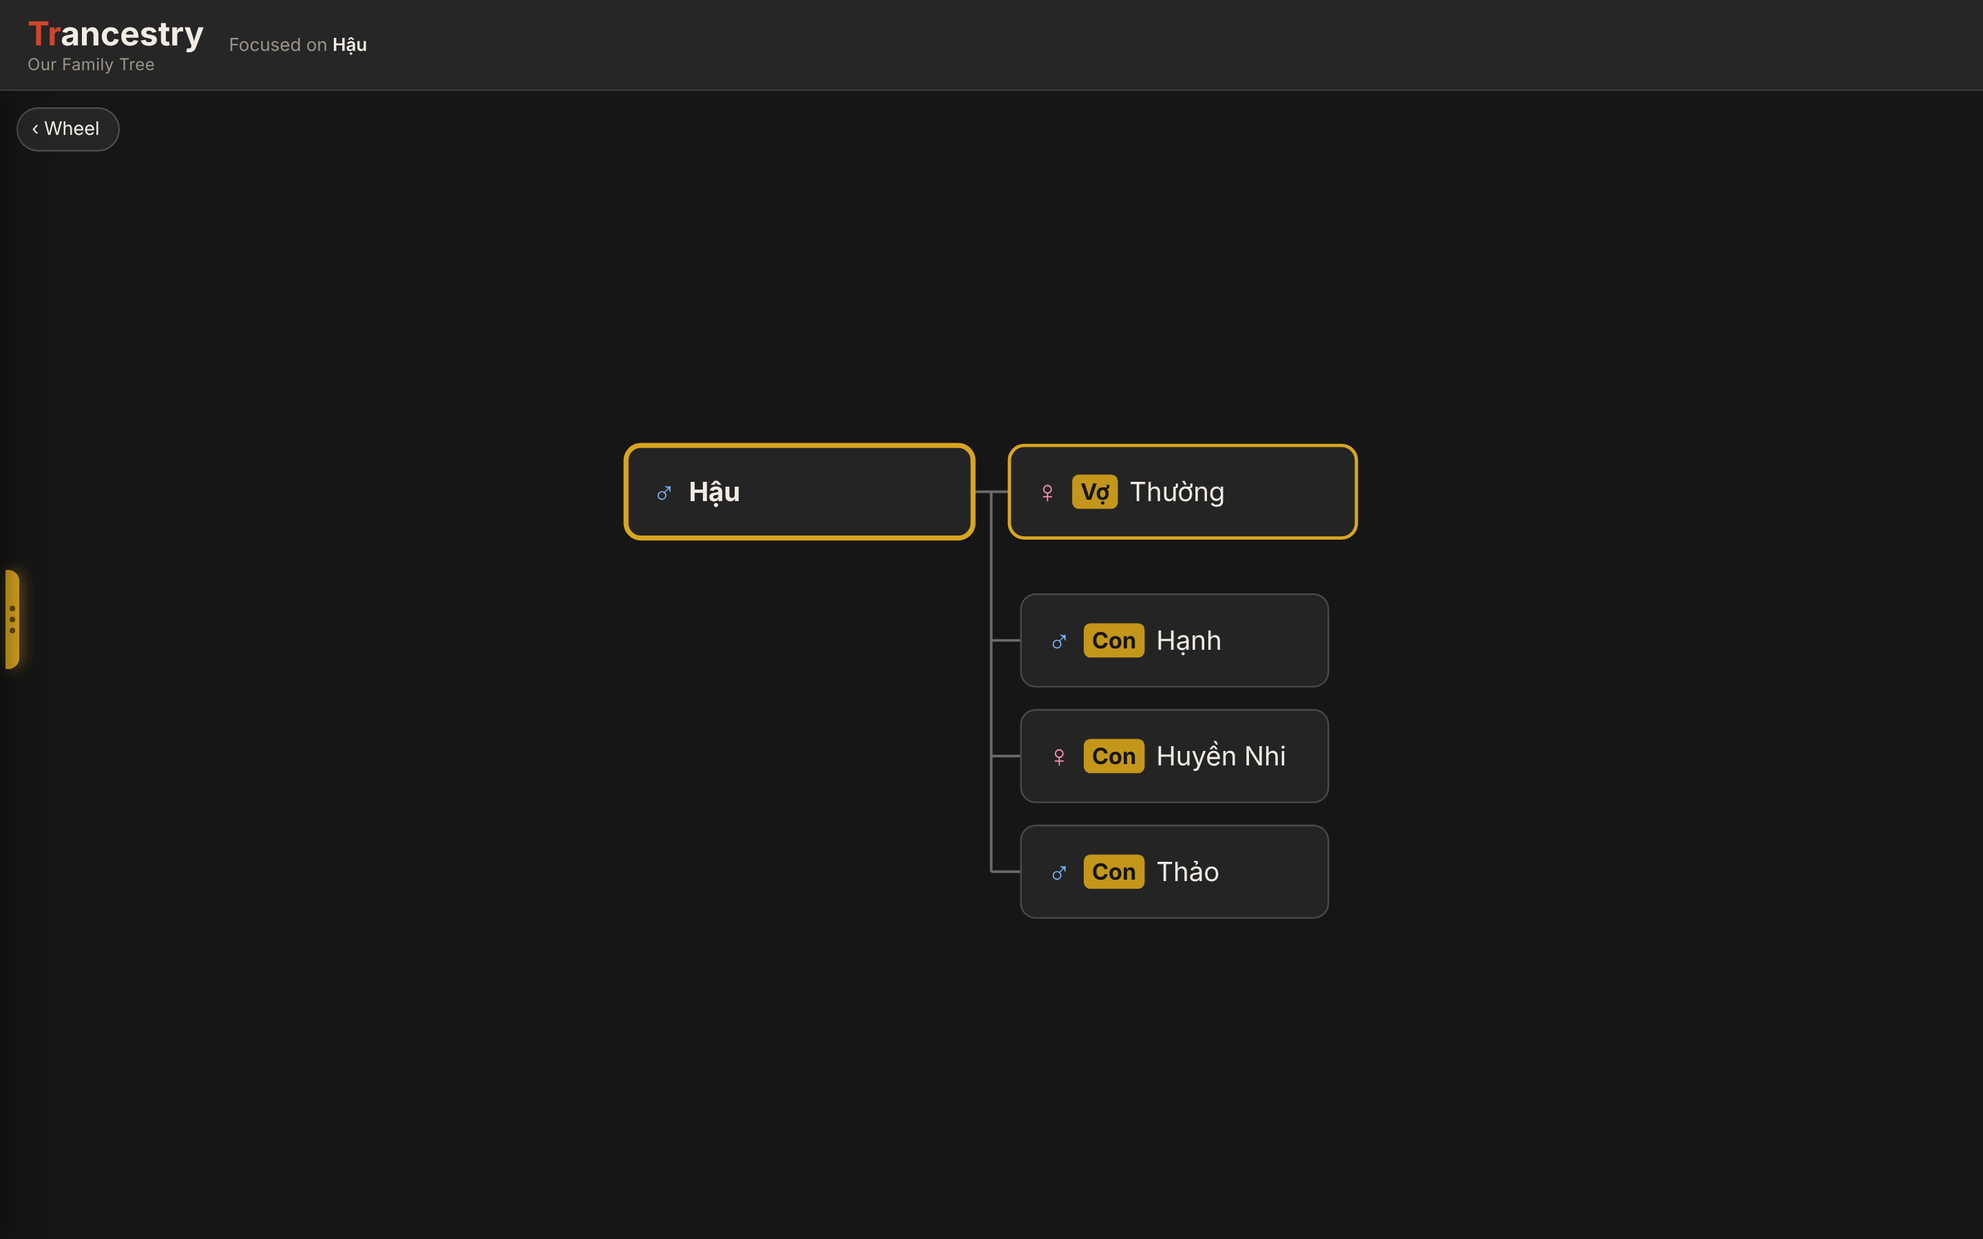
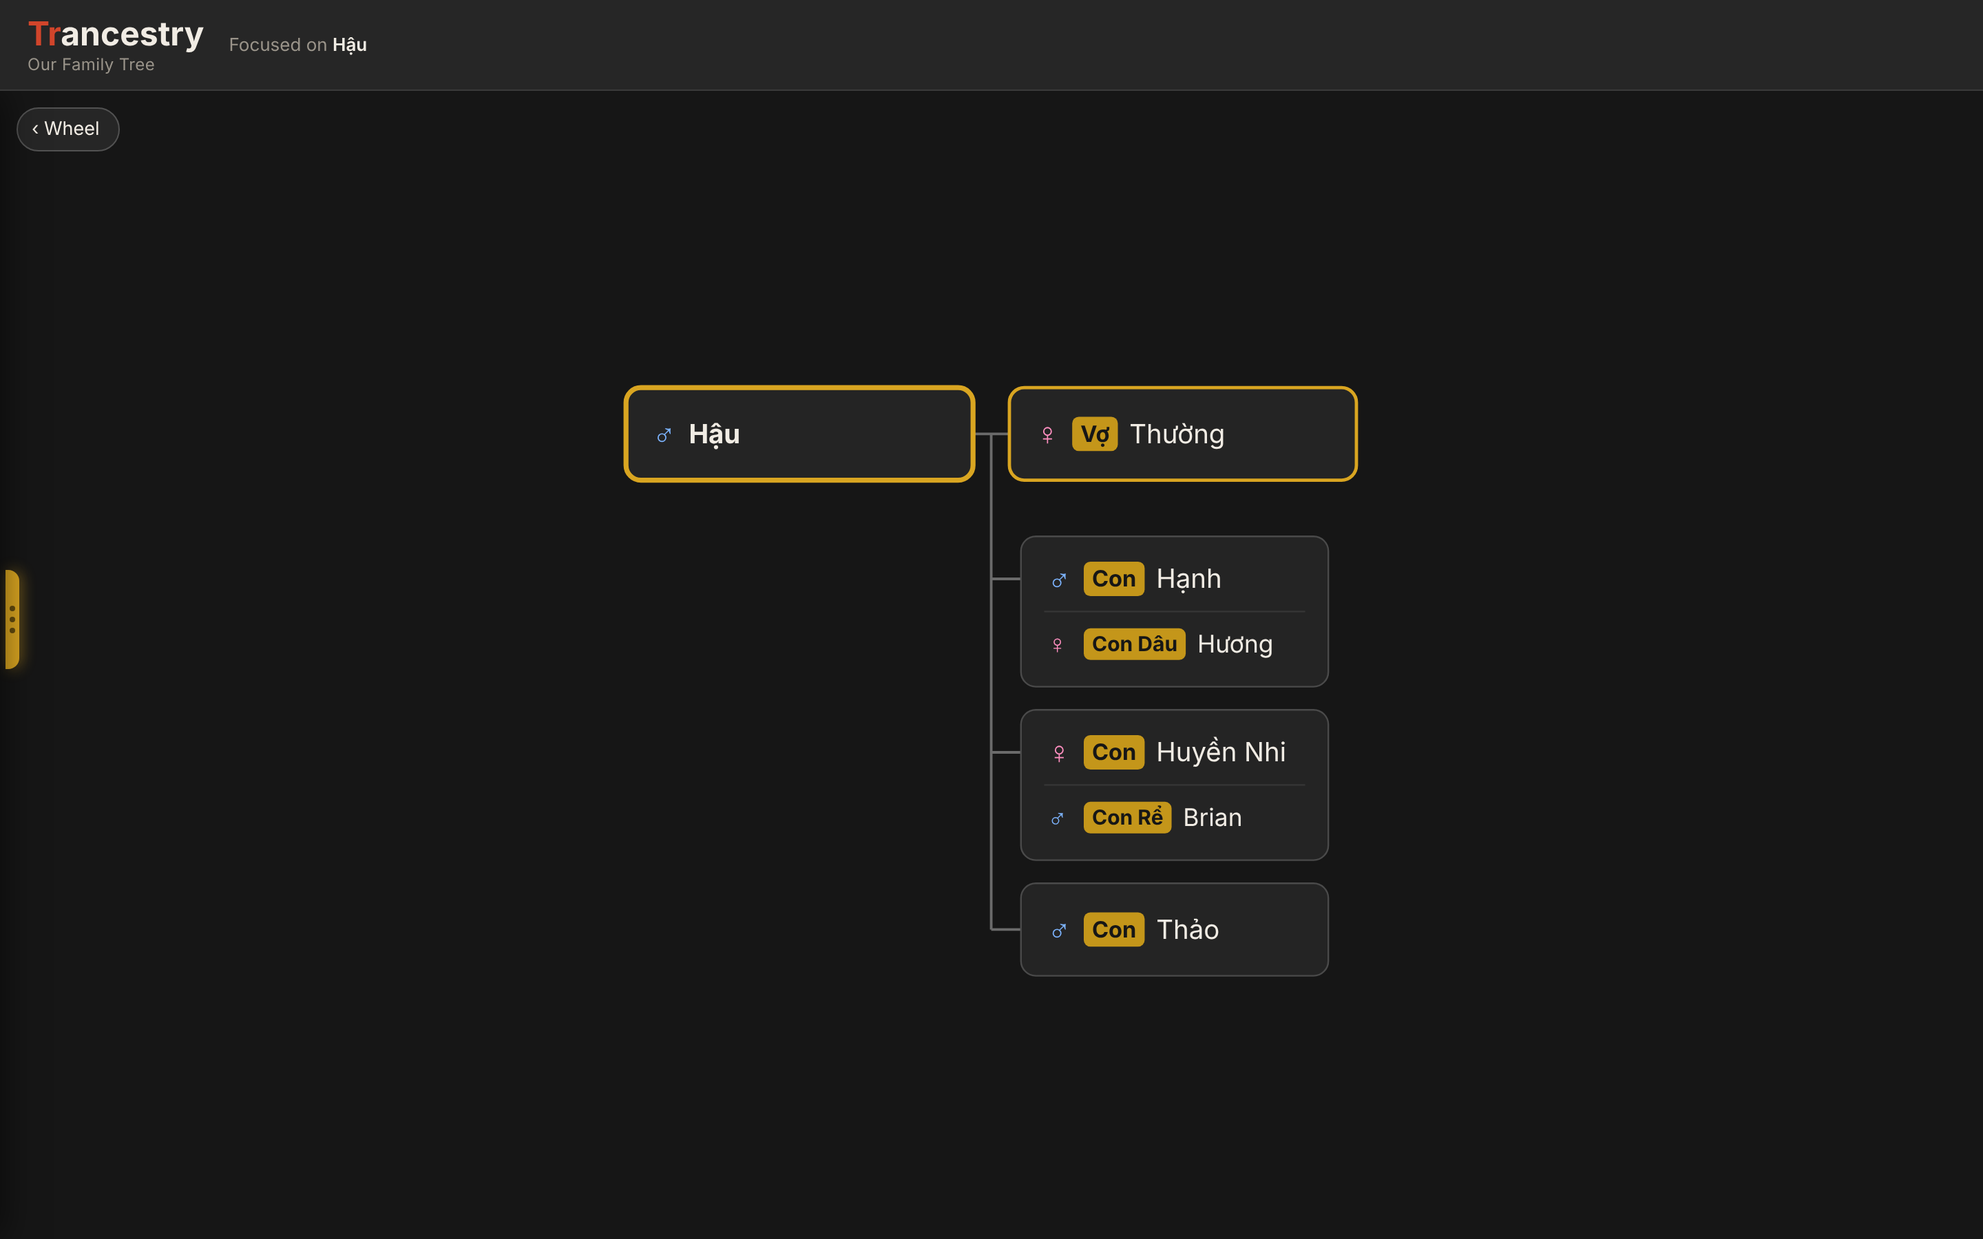
v2: Simple view child cards include their spouse (Entry 101)
Claude-Session: https://claude.ai/code/session_01L5J4XGDoU485bNMdVhDAYq

Changed region(s): [[0.3125, 0.3111, 0.6875, 0.56], [0.5312, 0.5911, 0.6562, 0.7778]]

diff --git a/v2/index.html b/v2/index.html
@@ -379,14 +379,22 @@ function paneSync(){$('pWhole').disabled=!SNAP;$('pClear').disabled=!FOCAL;$('pC
 (function(){
  let CW=210,CH=58,GX=18,GY=70,PAD=28;const MALE='#7db4ff',FEM='#ff8fc0';
  const ss=d3.select('#ssv');
+ // Entry 101 (Hanh): a child's card also shows their wife / husband, one line each under the child
+ const spouses=p=>P.filter(q=>q.d===p.d&&q.i>0),SL=()=>Math.round(CH*.62);
+ const cardH=(p,role)=>role==='child'?CH+spouses(p).length*SL():CH;
+ const line0=(p,role)=>{const n=role==='child'?1+spouses(p).length:1,LH=(cardH(p,role)-(n>1?12:0))/n;return (n>1?6:0)+LH/2};
  function card(g,x,y,w,p,role){   // role: 'focal' | 'couple' | 'child'
-  const G=g.append('g').attr('class','card').attr('transform',`translate(${x},${y})`).on('click',e=>{e.stopPropagation();go(p)});
-  G.append('rect').attr('width',w).attr('height',CH).attr('rx',9).attr('fill','#242424').attr('stroke',role==='child'?'#4a4a4a':GOLD).attr('stroke-width',role==='child'?1:(role==='focal'?3:2));
-  const sym=p.g==='F'?'♀':p.g==='M'?'♂':'';G.append('text').attr('x',16).attr('y',CH/2).attr('dy','.35em').attr('font-size',19).attr('font-weight',700).attr('fill',p.g==='F'?FEM:MALE).text(sym);
-  let x0=38;const title=p===FOCAL?'':titleOf(FOCAL.cell,p.cell),fs=CW<200?14:16;
-  if(title){const tw=W(title,fs*.85,700)+10;G.append('rect').attr('x',x0).attr('y',CH/2-fs*.65).attr('width',tw).attr('height',fs*1.3).attr('rx',4).attr('fill',CHIP);
-   G.append('text').attr('x',x0+5).attr('y',CH/2).attr('dy','.35em').attr('font-size',fs*.85).attr('font-weight',700).attr('fill','#161616').text(title);x0+=tw+7}
-  G.append('text').attr('x',x0).attr('y',CH/2).attr('dy','.35em').attr('font-size',fs).attr('font-weight',p===FOCAL?700:400).attr('fill','#f1ece4').text(fit(p.nm,fs,w-x0-12,p===FOCAL?700:400))}
+  const people=role==='child'?[p,...spouses(p)]:[p],h=cardH(p,role),n=people.length,LH=(h-(n>1?12:0))/n,fs=CW<200?14:16;
+  const G=g.append('g').attr('class','card').attr('transform',`translate(${x},${y})`);
+  G.append('rect').attr('width',w).attr('height',h).attr('rx',9).attr('fill','#242424').attr('stroke',role==='child'?'#4a4a4a':GOLD).attr('stroke-width',role==='child'?1:(role==='focal'?3:2));
+  people.forEach((q,k)=>{const cy=(n>1?6:0)+LH*(k+.5),R=G.append('g').style('cursor','pointer').on('click',e=>{e.stopPropagation();go(q)});
+   R.append('rect').attr('x',2).attr('y',cy-LH/2).attr('width',w-4).attr('height',LH).attr('fill','transparent');
+   if(k)R.append('line').attr('x1',14).attr('x2',w-14).attr('y1',cy-LH/2).attr('y2',cy-LH/2).attr('stroke','#363636');
+   const sym=q.g==='F'?'♀':q.g==='M'?'♂':'';R.append('text').attr('x',16).attr('y',cy).attr('dy','.35em').attr('font-size',k?16:19).attr('font-weight',700).attr('fill',q.g==='F'?FEM:MALE).text(sym);
+   let x0=38;const title=q===FOCAL?'':titleOf(FOCAL.cell,q.cell),f=k?fs*.92:fs;
+   if(title){const tw=W(title,f*.85,700)+10;R.append('rect').attr('x',x0).attr('y',cy-f*.65).attr('width',tw).attr('height',f*1.3).attr('rx',4).attr('fill',CHIP);
+    R.append('text').attr('x',x0+5).attr('y',cy).attr('dy','.35em').attr('font-size',f*.85).attr('font-weight',700).attr('fill','#161616').text(title);x0+=tw+7}
+   R.append('text').attr('x',x0).attr('y',cy).attr('dy','.35em').attr('font-size',f).attr('font-weight',q===FOCAL?700:400).attr('fill','#f1ece4').text(fit(q.nm,f,w-x0-12,q===FOCAL?700:400))})}
  // Entry 97 (Hanh): children always in a column; with two wives each mother's children hang from her
  function draw(){if(!FOCAL)return;ss.selectAll('*').remove();const ph=innerWidth<=820;CW=ph?150:210;CH=ph?48:56;GX=ph?14:22;PAD=ph?16:28;
   const d=FOCAL.d,couple=P.filter(q=>q.d===d),VG=ph?10:14,IND=ph?14:18,DROP=ph?26:34,KW=CW-IND-6;
@@ -399,31 +407,31 @@ function paneSync(){$('pWhole').disabled=!SNAP;$('pClear').disabled=!FOCAL;$('pC
   const cw=couple.length*CW+(couple.length-1)*GX,cx=i=>PAD+lpad+slot[i]*(CW+GX);
   // where each group's line drops from: the couple's middle (one spouse) or the mother herself (two or more wives)
   const dropX=mi=>couple.length===1?cx(0)+CW/2:couple.length===2?cx(0)+CW+GX/2:cx(mi)+CW/2;
-  let maxN=0,right=PAD+lpad+cw;groups.forEach((ks,mi)=>{maxN=Math.max(maxN,ks.length);right=Math.max(right,dropX(mi)+IND+KW)});
-  const Wd=right+PAD,y1=PAD,yk=y1+CH+DROP,Hd=yk+(maxN?maxN*(CH+VG)-VG:0)+PAD;
+  let maxN=0,right=PAD+lpad+cw;groups.forEach((ks,mi)=>{maxN=Math.max(maxN,ks.reduce((t,q)=>t+cardH(q,'child')+VG,-VG));right=Math.max(right,dropX(mi)+IND+KW)});
+  const Wd=right+PAD,y1=PAD,yk=y1+CH+DROP,Hd=yk+Math.max(0,maxN)+PAD;
   const box=$('simple').getBoundingClientRect(),k=Math.max(.75,Math.min(1.2,(box.width-16)/Wd));
   ss.attr('width',Wd*k).attr('height',Hd*k).attr('viewBox',`0 0 ${Wd} ${Hd}`).style('margin-top',Math.max(8,(box.height-64-Hd*k)/2)+'px');
   const g=ss.append('g'),L=g.append('g'),ln=(a,b,c,e)=>L.append('line').attr('x1',a).attr('y1',b).attr('x2',c).attr('y2',e).attr('stroke','#6b6b6b').attr('stroke-width',1.6);
   if(couple.length===2)ln(cx(0)+CW,y1+CH/2,cx(1),y1+CH/2);                               // marriage line
   if(couple.length>2){const xs=couple.map((_,i)=>cx(i)).sort((a,b)=>a-b);for(let i=1;i<xs.length;i++)ln(xs[i-1]+CW,y1+CH/2,xs[i],y1+CH/2)}
   groups.forEach((ks,mi)=>{const x=dropX(mi),y0=couple.length===2?y1+CH/2:y1+CH,last=yk+(ks.length-1)*(CH+VG)+CH/2;
-   const lf=LEFT(mi);ln(x,y0,x,last);ks.forEach((q,n)=>{const yy=yk+n*(CH+VG);ln(x,yy+CH/2,lf?x-IND:x+IND,yy+CH/2);card(g,lf?x-IND-KW:x+IND,yy,KW,q,'child')})});
+   const lf=LEFT(mi);let yy=yk,lastY=y0;ks.forEach(q=>{const c=yy+line0(q,'child');ln(x,c,lf?x-IND:x+IND,c);lastY=c;card(g,lf?x-IND-KW:x+IND,yy,KW,q,'child');yy+=cardH(q,'child')+VG});ln(x,y0,x,lastY)});
   couple.forEach((q,i)=>card(g,cx(i),y1,CW,q,q===FOCAL?'focal':'couple'))}
  // phones with two or more wives: the husband on top; each wife below him on the line, her children under her
  function outline(d,couple,groups,o){const {VG,IND}=o,W2=Math.min(330,$('simple').getBoundingClientRect().width-16-PAD*2),ln=(a,b,c,e)=>L.append('line').attr('x1',a).attr('y1',b).attr('x2',c).attr('y2',e).attr('stroke','#6b6b6b').attr('stroke-width',1.6);
   const rows=[];rows.push({p:couple[0],x:PAD,w:W2,role:couple[0]===FOCAL?'focal':'couple'});
   couple.slice(1).forEach((w,i)=>{rows.push({p:w,x:PAD+IND,w:W2-IND,role:w===FOCAL?'focal':'couple',wife:true});(groups.get(i+1)||[]).forEach(k=>rows.push({p:k,x:PAD+IND*2,w:W2-IND*2,role:'child'}))});
   (groups.get(0)||[]).forEach(k=>rows.push({p:k,x:PAD+IND,w:W2-IND,role:'child'}));
-  const Wd=PAD*2+W2,Hd=PAD*2+rows.length*(CH+VG)-VG,box=$('simple').getBoundingClientRect(),k=Math.max(.75,Math.min(1.2,(box.width-16)/Wd));
+  const YS=[];let acc=PAD;rows.forEach(r=>{YS.push(acc);acc+=cardH(r.p,r.role)+VG});const Wd=PAD*2+W2,Hd=acc-VG+PAD,box=$('simple').getBoundingClientRect(),k=Math.max(.75,Math.min(1.2,(box.width-16)/Wd));
   ss.attr('width',Wd*k).attr('height',Hd*k).attr('viewBox',`0 0 ${Wd} ${Hd}`).style('margin-top','8px');
   const g=ss.append('g');var L=g.append('g');
-  const Y=i=>PAD+i*(CH+VG);let wifeIdx=[];rows.forEach((r,i)=>{if(r.wife)wifeIdx.push(i)});
+  const Y=i=>YS[i],M=i=>YS[i]+line0(rows[i].p,rows[i].role);let wifeIdx=[];rows.forEach((r,i)=>{if(r.wife)wifeIdx.push(i)});
   // husband's line down to each wife; each wife's line down to her children
-  if(wifeIdx.length){const x=PAD+IND/2;L.append('line').attr('x1',x).attr('y1',Y(0)+CH).attr('x2',x).attr('y2',Y(wifeIdx[wifeIdx.length-1])+CH/2).attr('stroke','#6b6b6b').attr('stroke-width',1.6);
-   wifeIdx.forEach(i=>L.append('line').attr('x1',x).attr('y1',Y(i)+CH/2).attr('x2',PAD+IND).attr('y2',Y(i)+CH/2).attr('stroke','#6b6b6b').attr('stroke-width',1.6))}
+  if(wifeIdx.length){const x=PAD+IND/2;L.append('line').attr('x1',x).attr('y1',Y(0)+CH).attr('x2',x).attr('y2',M(wifeIdx[wifeIdx.length-1])).attr('stroke','#6b6b6b').attr('stroke-width',1.6);
+   wifeIdx.forEach(i=>L.append('line').attr('x1',x).attr('y1',M(i)).attr('x2',PAD+IND).attr('y2',M(i)).attr('stroke','#6b6b6b').attr('stroke-width',1.6))}
   wifeIdx.forEach((wi,n)=>{const end=(n+1<wifeIdx.length?wifeIdx[n+1]:rows.length);const kids=[];for(let i=wi+1;i<end;i++)if(rows[i].role==='child'&&rows[i].x===PAD+IND*2)kids.push(i);
-   if(!kids.length)return;const x=PAD+IND+IND/2;L.append('line').attr('x1',x).attr('y1',Y(wi)+CH).attr('x2',x).attr('y2',Y(kids[kids.length-1])+CH/2).attr('stroke','#6b6b6b').attr('stroke-width',1.6);
-   kids.forEach(i=>L.append('line').attr('x1',x).attr('y1',Y(i)+CH/2).attr('x2',PAD+IND*2).attr('y2',Y(i)+CH/2).attr('stroke','#6b6b6b').attr('stroke-width',1.6))});
+   if(!kids.length)return;const x=PAD+IND+IND/2;L.append('line').attr('x1',x).attr('y1',Y(wi)+CH).attr('x2',x).attr('y2',M(kids[kids.length-1])).attr('stroke','#6b6b6b').attr('stroke-width',1.6);
+   kids.forEach(i=>L.append('line').attr('x1',x).attr('y1',M(i)).attr('x2',PAD+IND*2).attr('y2',M(i)).attr('stroke','#6b6b6b').attr('stroke-width',1.6))});
   rows.forEach((r,i)=>card(g,r.x,Y(i),r.w,r.p,r.role))}
  // tapping a card makes that person the focal; a child opens their own family unit
  function go(p){FOCAL=p;paintFocal();labels();nav();hint();sync();draw()}

diff --git a/v2/src/index.template.html b/v2/src/index.template.html
@@ -379,14 +379,22 @@ function paneSync(){$('pWhole').disabled=!SNAP;$('pClear').disabled=!FOCAL;$('pC
 (function(){
  let CW=210,CH=58,GX=18,GY=70,PAD=28;const MALE='#7db4ff',FEM='#ff8fc0';
  const ss=d3.select('#ssv');
+ // Entry 101 (Hanh): a child's card also shows their wife / husband, one line each under the child
+ const spouses=p=>P.filter(q=>q.d===p.d&&q.i>0),SL=()=>Math.round(CH*.62);
+ const cardH=(p,role)=>role==='child'?CH+spouses(p).length*SL():CH;
+ const line0=(p,role)=>{const n=role==='child'?1+spouses(p).length:1,LH=(cardH(p,role)-(n>1?12:0))/n;return (n>1?6:0)+LH/2};
  function card(g,x,y,w,p,role){   // role: 'focal' | 'couple' | 'child'
-  const G=g.append('g').attr('class','card').attr('transform',`translate(${x},${y})`).on('click',e=>{e.stopPropagation();go(p)});
-  G.append('rect').attr('width',w).attr('height',CH).attr('rx',9).attr('fill','#242424').attr('stroke',role==='child'?'#4a4a4a':GOLD).attr('stroke-width',role==='child'?1:(role==='focal'?3:2));
-  const sym=p.g==='F'?'♀':p.g==='M'?'♂':'';G.append('text').attr('x',16).attr('y',CH/2).attr('dy','.35em').attr('font-size',19).attr('font-weight',700).attr('fill',p.g==='F'?FEM:MALE).text(sym);
-  let x0=38;const title=p===FOCAL?'':titleOf(FOCAL.cell,p.cell),fs=CW<200?14:16;
-  if(title){const tw=W(title,fs*.85,700)+10;G.append('rect').attr('x',x0).attr('y',CH/2-fs*.65).attr('width',tw).attr('height',fs*1.3).attr('rx',4).attr('fill',CHIP);
-   G.append('text').attr('x',x0+5).attr('y',CH/2).attr('dy','.35em').attr('font-size',fs*.85).attr('font-weight',700).attr('fill','#161616').text(title);x0+=tw+7}
-  G.append('text').attr('x',x0).attr('y',CH/2).attr('dy','.35em').attr('font-size',fs).attr('font-weight',p===FOCAL?700:400).attr('fill','#f1ece4').text(fit(p.nm,fs,w-x0-12,p===FOCAL?700:400))}
+  const people=role==='child'?[p,...spouses(p)]:[p],h=cardH(p,role),n=people.length,LH=(h-(n>1?12:0))/n,fs=CW<200?14:16;
+  const G=g.append('g').attr('class','card').attr('transform',`translate(${x},${y})`);
+  G.append('rect').attr('width',w).attr('height',h).attr('rx',9).attr('fill','#242424').attr('stroke',role==='child'?'#4a4a4a':GOLD).attr('stroke-width',role==='child'?1:(role==='focal'?3:2));
+  people.forEach((q,k)=>{const cy=(n>1?6:0)+LH*(k+.5),R=G.append('g').style('cursor','pointer').on('click',e=>{e.stopPropagation();go(q)});
+   R.append('rect').attr('x',2).attr('y',cy-LH/2).attr('width',w-4).attr('height',LH).attr('fill','transparent');
+   if(k)R.append('line').attr('x1',14).attr('x2',w-14).attr('y1',cy-LH/2).attr('y2',cy-LH/2).attr('stroke','#363636');
+   const sym=q.g==='F'?'♀':q.g==='M'?'♂':'';R.append('text').attr('x',16).attr('y',cy).attr('dy','.35em').attr('font-size',k?16:19).attr('font-weight',700).attr('fill',q.g==='F'?FEM:MALE).text(sym);
+   let x0=38;const title=q===FOCAL?'':titleOf(FOCAL.cell,q.cell),f=k?fs*.92:fs;
+   if(title){const tw=W(title,f*.85,700)+10;R.append('rect').attr('x',x0).attr('y',cy-f*.65).attr('width',tw).attr('height',f*1.3).attr('rx',4).attr('fill',CHIP);
+    R.append('text').attr('x',x0+5).attr('y',cy).attr('dy','.35em').attr('font-size',f*.85).attr('font-weight',700).attr('fill','#161616').text(title);x0+=tw+7}
+   R.append('text').attr('x',x0).attr('y',cy).attr('dy','.35em').attr('font-size',f).attr('font-weight',q===FOCAL?700:400).attr('fill','#f1ece4').text(fit(q.nm,f,w-x0-12,q===FOCAL?700:400))})}
  // Entry 97 (Hanh): children always in a column; with two wives each mother's children hang from her
  function draw(){if(!FOCAL)return;ss.selectAll('*').remove();const ph=innerWidth<=820;CW=ph?150:210;CH=ph?48:56;GX=ph?14:22;PAD=ph?16:28;
   const d=FOCAL.d,couple=P.filter(q=>q.d===d),VG=ph?10:14,IND=ph?14:18,DROP=ph?26:34,KW=CW-IND-6;
@@ -399,31 +407,31 @@ function paneSync(){$('pWhole').disabled=!SNAP;$('pClear').disabled=!FOCAL;$('pC
   const cw=couple.length*CW+(couple.length-1)*GX,cx=i=>PAD+lpad+slot[i]*(CW+GX);
   // where each group's line drops from: the couple's middle (one spouse) or the mother herself (two or more wives)
   const dropX=mi=>couple.length===1?cx(0)+CW/2:couple.length===2?cx(0)+CW+GX/2:cx(mi)+CW/2;
-  let maxN=0,right=PAD+lpad+cw;groups.forEach((ks,mi)=>{maxN=Math.max(maxN,ks.length);right=Math.max(right,dropX(mi)+IND+KW)});
-  const Wd=right+PAD,y1=PAD,yk=y1+CH+DROP,Hd=yk+(maxN?maxN*(CH+VG)-VG:0)+PAD;
+  let maxN=0,right=PAD+lpad+cw;groups.forEach((ks,mi)=>{maxN=Math.max(maxN,ks.reduce((t,q)=>t+cardH(q,'child')+VG,-VG));right=Math.max(right,dropX(mi)+IND+KW)});
+  const Wd=right+PAD,y1=PAD,yk=y1+CH+DROP,Hd=yk+Math.max(0,maxN)+PAD;
   const box=$('simple').getBoundingClientRect(),k=Math.max(.75,Math.min(1.2,(box.width-16)/Wd));
   ss.attr('width',Wd*k).attr('height',Hd*k).attr('viewBox',`0 0 ${Wd} ${Hd}`).style('margin-top',Math.max(8,(box.height-64-Hd*k)/2)+'px');
   const g=ss.append('g'),L=g.append('g'),ln=(a,b,c,e)=>L.append('line').attr('x1',a).attr('y1',b).attr('x2',c).attr('y2',e).attr('stroke','#6b6b6b').attr('stroke-width',1.6);
   if(couple.length===2)ln(cx(0)+CW,y1+CH/2,cx(1),y1+CH/2);                               // marriage line
   if(couple.length>2){const xs=couple.map((_,i)=>cx(i)).sort((a,b)=>a-b);for(let i=1;i<xs.length;i++)ln(xs[i-1]+CW,y1+CH/2,xs[i],y1+CH/2)}
   groups.forEach((ks,mi)=>{const x=dropX(mi),y0=couple.length===2?y1+CH/2:y1+CH,last=yk+(ks.length-1)*(CH+VG)+CH/2;
-   const lf=LEFT(mi);ln(x,y0,x,last);ks.forEach((q,n)=>{const yy=yk+n*(CH+VG);ln(x,yy+CH/2,lf?x-IND:x+IND,yy+CH/2);card(g,lf?x-IND-KW:x+IND,yy,KW,q,'child')})});
+   const lf=LEFT(mi);let yy=yk,lastY=y0;ks.forEach(q=>{const c=yy+line0(q,'child');ln(x,c,lf?x-IND:x+IND,c);lastY=c;card(g,lf?x-IND-KW:x+IND,yy,KW,q,'child');yy+=cardH(q,'child')+VG});ln(x,y0,x,lastY)});
   couple.forEach((q,i)=>card(g,cx(i),y1,CW,q,q===FOCAL?'focal':'couple'))}
  // phones with two or more wives: the husband on top; each wife below him on the line, her children under her
  function outline(d,couple,groups,o){const {VG,IND}=o,W2=Math.min(330,$('simple').getBoundingClientRect().width-16-PAD*2),ln=(a,b,c,e)=>L.append('line').attr('x1',a).attr('y1',b).attr('x2',c).attr('y2',e).attr('stroke','#6b6b6b').attr('stroke-width',1.6);
   const rows=[];rows.push({p:couple[0],x:PAD,w:W2,role:couple[0]===FOCAL?'focal':'couple'});
   couple.slice(1).forEach((w,i)=>{rows.push({p:w,x:PAD+IND,w:W2-IND,role:w===FOCAL?'focal':'couple',wife:true});(groups.get(i+1)||[]).forEach(k=>rows.push({p:k,x:PAD+IND*2,w:W2-IND*2,role:'child'}))});
   (groups.get(0)||[]).forEach(k=>rows.push({p:k,x:PAD+IND,w:W2-IND,role:'child'}));
-  const Wd=PAD*2+W2,Hd=PAD*2+rows.length*(CH+VG)-VG,box=$('simple').getBoundingClientRect(),k=Math.max(.75,Math.min(1.2,(box.width-16)/Wd));
+  const YS=[];let acc=PAD;rows.forEach(r=>{YS.push(acc);acc+=cardH(r.p,r.role)+VG});const Wd=PAD*2+W2,Hd=acc-VG+PAD,box=$('simple').getBoundingClientRect(),k=Math.max(.75,Math.min(1.2,(box.width-16)/Wd));
   ss.attr('width',Wd*k).attr('height',Hd*k).attr('viewBox',`0 0 ${Wd} ${Hd}`).style('margin-top','8px');
   const g=ss.append('g');var L=g.append('g');
-  const Y=i=>PAD+i*(CH+VG);let wifeIdx=[];rows.forEach((r,i)=>{if(r.wife)wifeIdx.push(i)});
+  const Y=i=>YS[i],M=i=>YS[i]+line0(rows[i].p,rows[i].role);let wifeIdx=[];rows.forEach((r,i)=>{if(r.wife)wifeIdx.push(i)});
   // husband's line down to each wife; each wife's line down to her children
-  if(wifeIdx.length){const x=PAD+IND/2;L.append('line').attr('x1',x).attr('y1',Y(0)+CH).attr('x2',x).attr('y2',Y(wifeIdx[wifeIdx.length-1])+CH/2).attr('stroke','#6b6b6b').attr('stroke-width',1.6);
-   wifeIdx.forEach(i=>L.append('line').attr('x1',x).attr('y1',Y(i)+CH/2).attr('x2',PAD+IND).attr('y2',Y(i)+CH/2).attr('stroke','#6b6b6b').attr('stroke-width',1.6))}
+  if(wifeIdx.length){const x=PAD+IND/2;L.append('line').attr('x1',x).attr('y1',Y(0)+CH).attr('x2',x).attr('y2',M(wifeIdx[wifeIdx.length-1])).attr('stroke','#6b6b6b').attr('stroke-width',1.6);
+   wifeIdx.forEach(i=>L.append('line').attr('x1',x).attr('y1',M(i)).attr('x2',PAD+IND).attr('y2',M(i)).attr('stroke','#6b6b6b').attr('stroke-width',1.6))}
   wifeIdx.forEach((wi,n)=>{const end=(n+1<wifeIdx.length?wifeIdx[n+1]:rows.length);const kids=[];for(let i=wi+1;i<end;i++)if(rows[i].role==='child'&&rows[i].x===PAD+IND*2)kids.push(i);
-   if(!kids.length)return;const x=PAD+IND+IND/2;L.append('line').attr('x1',x).attr('y1',Y(wi)+CH).attr('x2',x).attr('y2',Y(kids[kids.length-1])+CH/2).attr('stroke','#6b6b6b').attr('stroke-width',1.6);
-   kids.forEach(i=>L.append('line').attr('x1',x).attr('y1',Y(i)+CH/2).attr('x2',PAD+IND*2).attr('y2',Y(i)+CH/2).attr('stroke','#6b6b6b').attr('stroke-width',1.6))});
+   if(!kids.length)return;const x=PAD+IND+IND/2;L.append('line').attr('x1',x).attr('y1',Y(wi)+CH).attr('x2',x).attr('y2',M(kids[kids.length-1])).attr('stroke','#6b6b6b').attr('stroke-width',1.6);
+   kids.forEach(i=>L.append('line').attr('x1',x).attr('y1',M(i)).attr('x2',PAD+IND*2).attr('y2',M(i)).attr('stroke','#6b6b6b').attr('stroke-width',1.6))});
   rows.forEach((r,i)=>card(g,r.x,Y(i),r.w,r.p,r.role))}
  // tapping a card makes that person the focal; a child opens their own family unit
  function go(p){FOCAL=p;paintFocal();labels();nav();hint();sync();draw()}

diff --git a/SESSION_LEDGER.md b/SESSION_LEDGER.md
@@ -1577,3 +1577,10 @@ Then: "Ông Thiện is Ông Hai's older brother." "Tường is Bà Thương's da
 - Hanh: "if the left panel is open, any click on the tree or sunburst auto hides the left panel." → with the pane open,
   a click/tap on the wheel or the Simple view **only hides the pane** (Hanh chose "hide only"); the next click works as
   usual. Clicks inside the pane are unaffected. Tested on computer and S25 Ultra.
+
+## Entry 101 (2026-10-26) — Simple view: spouses inside the children's cards
+
+- Hanh: "under the simple view; show the wife as part of the children cards." → each child's card also lists their
+  wife / husband on a line under the child (♀/♂, title chip from the focal — Con Dâu / Con Rể —, name), separated by a
+  thin rule; a child with no spouse keeps a one-line card. Tapping either line makes that person the focal.
+  Computers and phones (outline). Previews `v2/mockups/simple-*.png` updated.
